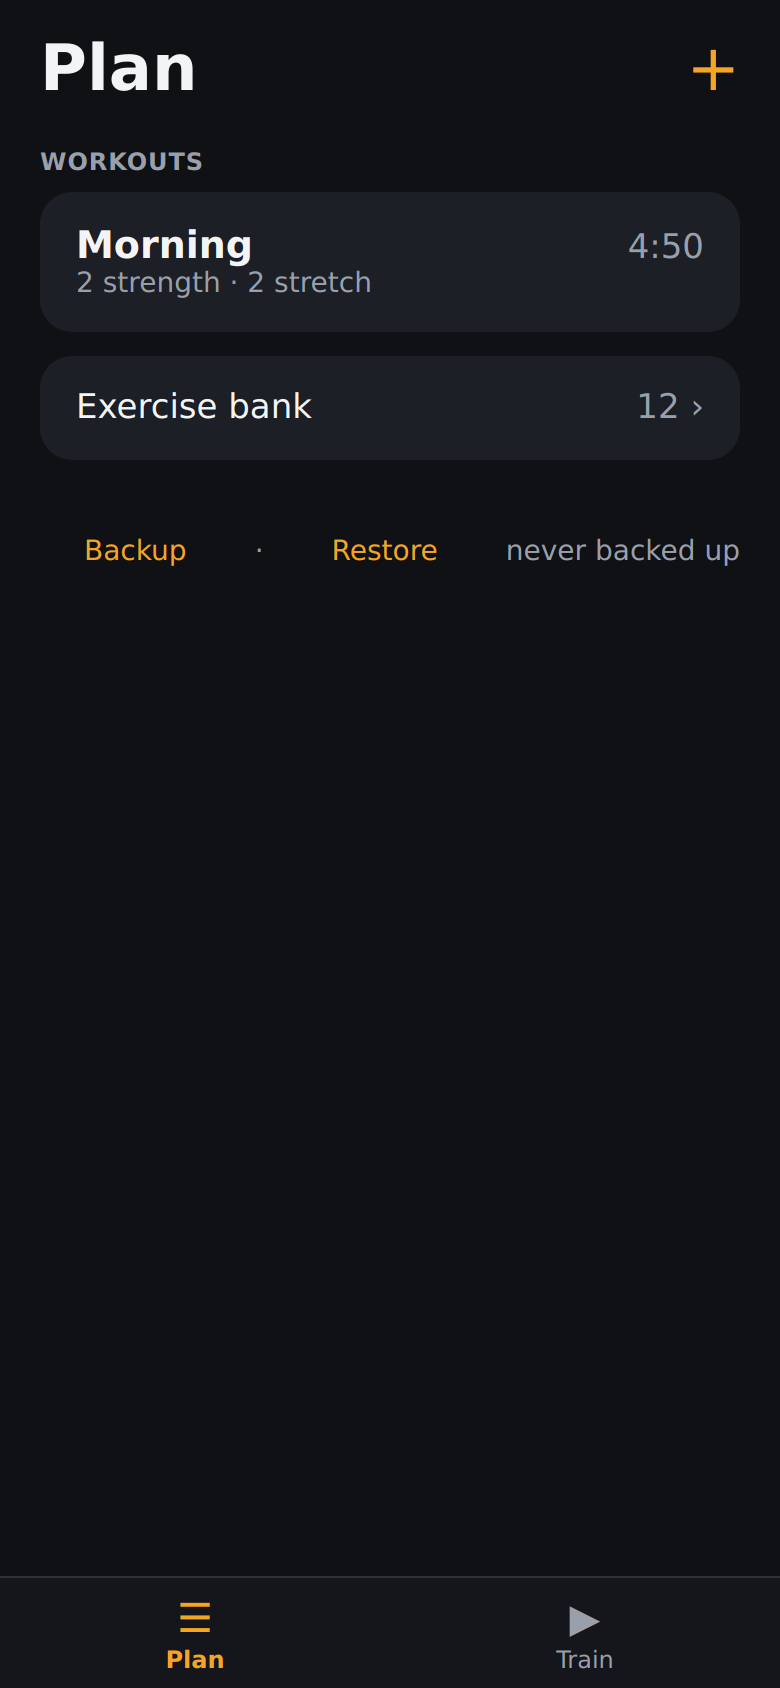
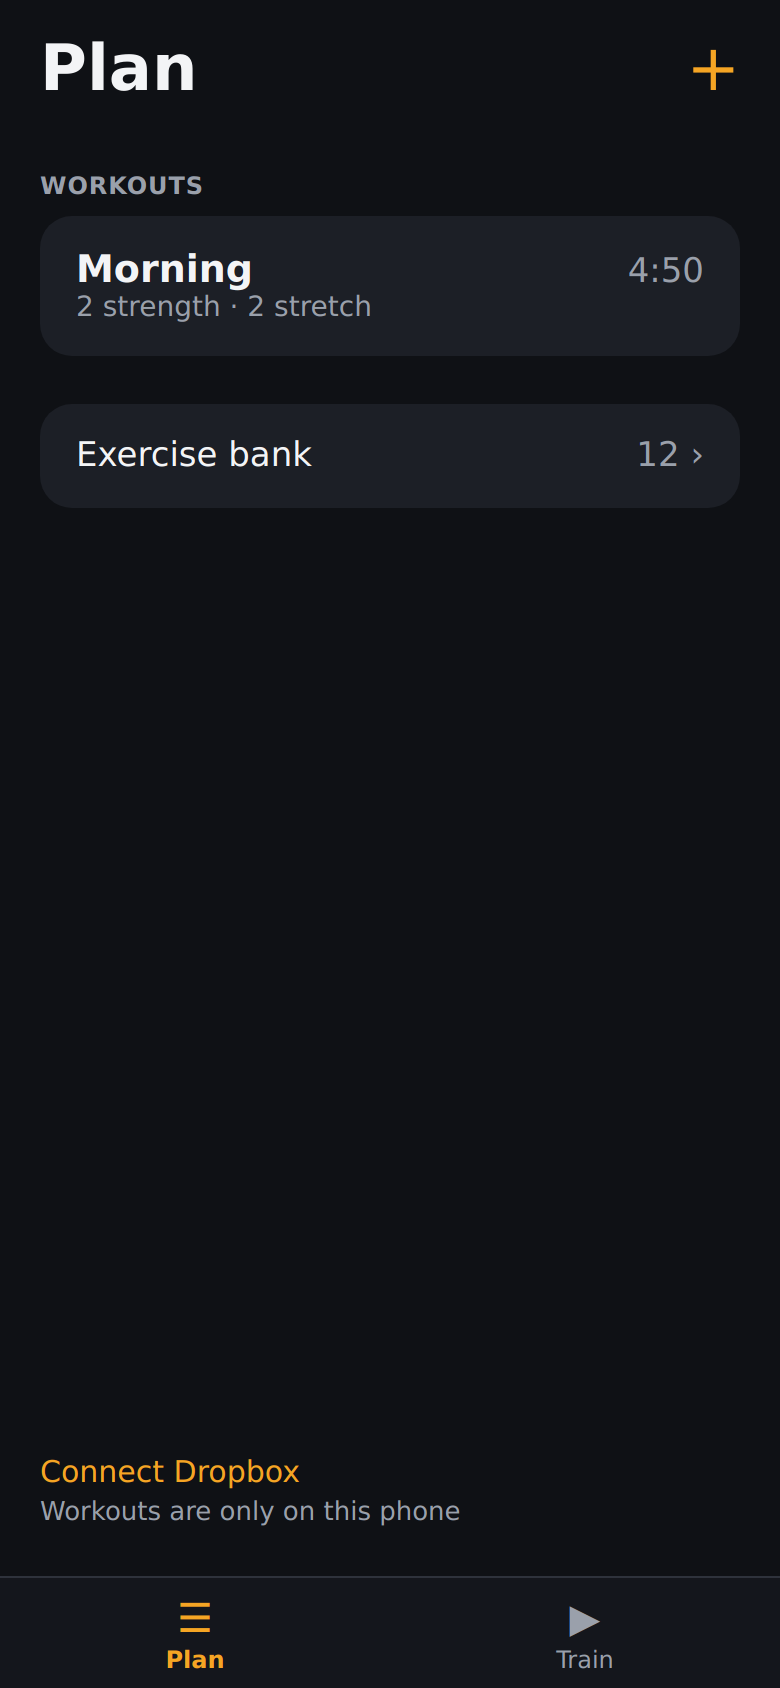
feat: Dropbox sync line and saved-configurations sheet on the Plan view

diff --git a/js/views/plan.js b/js/views/plan.js
@@ -1,12 +1,17 @@
-import { el, replace, toast, confirmAsync } from "../ui.js";
+import { el, replace, toast, confirmAsync, sheet } from "../ui.js";
 import { totals, formatDuration, summaryLine, makeWorkout } from "../workout.js";
-import { EXERCISES, getExercise } from "../exercises.js";
-import { validateBackup } from "../store.js";
+import { EXERCISES } from "../exercises.js";
+import { formatSyncTime } from "../sync.js";
 
-export function render({ store, navigate }) {
-  const root = el("div");
+const LINE_TEXT = { saving: "Saving to Dropbox…", offline: "Offline · will sync when online", error: "Sync failed · tap to retry" };
+const plural = n => `${n} workout${n === 1 ? "" : "s"}`;
+
+export function render({ store, sync, navigate }) {
+  const root = el("div", { class: "plan" });
+  const lineHost = el("div", { class: "sync-host" });
   draw();
-  return { el: root, tabs: "plan" };
+  const unsub = sync.subscribe(() => replace(lineHost, syncLine()));
+  return { el: root, tabs: "plan", destroy: unsub };
 
   function draw() {
     const st = store.state;
@@ -19,7 +24,7 @@ export function render({ store, navigate }) {
         })
       : [el("div", { class: "empty" }, "No workouts yet. Tap + to create one.")];
 
-    const fileInput = el("input", { type: "file", accept: "application/json,.json", hidden: true, onChange: restore });
+    replace(lineHost, syncLine());
     replace(root,
       store.saveError ? el("div", { class: "notice warn" }, "Changes are not being saved: storage is unavailable or full.") : null,
       el("div", { class: "header" },
@@ -34,41 +39,64 @@ export function render({ store, navigate }) {
       ...cards,
       el("button", { class: "card", style: { marginTop: "12px" }, onClick: () => navigate("/plan/bank") },
         el("div", { class: "row" }, el("span", {}, "Exercise bank"), el("span", { class: "dur" }, `${EXERCISES.length}  ›`))),
-      el("div", { class: "links" },
-        el("button", { class: "text-link block-btn", onClick: backup }, "Backup"),
-        el("span", { class: "sep" }, "·"),
-        el("button", { class: "text-link block-btn", onClick: () => fileInput.click() }, "Restore"),
-        el("span", { class: "sub" }, st.lastBackupAt ? `last backup ${st.lastBackupAt.slice(0, 10)}` : "never backed up")),
-      fileInput,
+      lineHost,
     );
   }
 
-  async function backup() {
-    const st = store.state;
-    const data = JSON.stringify({ version: 1, savedAt: st.savedAt, workouts: st.workouts }, null, 2);
-    const blob = new Blob([data], { type: "application/json" });
-    const url = URL.createObjectURL(blob);
-    const a = el("a", { href: url, download: `morning-fit-backup-${new Date().toISOString().slice(0, 10)}.json` });
-    document.body.append(a);
-    a.click();
-    a.remove();
-    setTimeout(() => URL.revokeObjectURL(url), 10_000);
-    await store.markBackup();
-    draw();
+  // The one line at the bottom of the view; a button in every state (spec 4.1).
+  function syncLine() {
+    const s = sync.status;
+    if (s === "off") {
+      return el("button", { class: "sync-line off", onClick: () => sync.connect() },
+        el("span", { class: "main" }, "Connect Dropbox"), el("span", { class: "sub" }, "Workouts are only on this phone"));
+    }
+    const text = s === "synced" ? (sync.syncedAt ? `Synced to Dropbox · ${formatSyncTime(sync.syncedAt)}` : "Connected to Dropbox") : LINE_TEXT[s];
+    return el("button", { class: `sync-line ${s}`, onClick: onSyncTap }, el("span", { class: "main" }, text), el("span", { class: "chev" }, "›"));
   }
 
-  async function restore(e) {
-    const file = e.target.files[0];
-    e.target.value = "";
-    if (!file) return;
-    let obj;
-    try { obj = JSON.parse(await file.text()); } catch { toast("That file is not valid JSON"); return; }
-    const r = validateBackup(obj, getExercise);
-    if (!r.ok) { toast(r.error, 4000); return; }
-    const dropped = r.dropped ? ` ${r.dropped} step(s) with unknown exercises will be dropped.` : "";
-    if (!(await confirmAsync(`Replace all workouts with ${r.workouts} from the backup?${dropped}`))) return;
-    await store.replace(r.state);
-    toast("Workouts restored");
-    draw();
+  async function onSyncTap() {
+    const s = sync.status;
+    if (s === "offline") { toast("Dropbox is not reachable"); return; }
+    if (s === "error") { await sync.retry(); return; }
+    if (!(await confirmAsync("Load a saved configuration?\nYour current workouts will be kept in Dropbox as a new .bak file first."))) return;
+    openConfigs();
+  }
+
+  function openConfigs() {
+    const list = el("div", { class: "cfg-list" }, el("div", { class: "sub" }, "Loading…"));
+    const close = sheet(el("div", {},
+      el("h2", {}, "Saved configurations"),
+      el("div", { class: "type" }, "Dropbox / Apps / fitapp"),
+      list,
+      el("button", { class: "block-btn cfg-disconnect", onClick: onDisconnect }, "Disconnect Dropbox"),
+      el("button", { class: "btn raised", onClick: () => close() }, "Cancel")));
+
+    sync.listConfigs()
+      .then(rows => replace(list, rows.length ? rows.map(row) : el("div", { class: "sub" }, "No configurations in Dropbox yet.")))
+      .catch(() => replace(list, el("div", { class: "sub" }, "Could not read Dropbox. Try again later.")));
+
+    function row(r) {
+      const when = r.ok ? formatSyncTime(r.savedAt) : "";
+      const detail = r.ok ? plural(r.count) + (r.names.length ? " · " + r.names.join(", ") : "") : "unreadable";
+      return el("button", { class: "cfg-row", dataset: { name: r.name }, disabled: !r.ok, onClick: () => pick(r) },
+        el("div", { class: "top" }, el("span", { class: "fname" }, r.name), r.current ? el("span", { class: "tag" }, "current") : null, el("span", { class: "when" }, when)),
+        el("div", { class: "detail" }, detail));
+    }
+
+    async function pick(r) {
+      try {
+        const res = await sync.loadConfig(r.name);
+        close();
+        toast(`Loaded ${res.name} · ${plural(res.count)}`);
+        draw();
+      } catch { toast(`Could not load ${r.name}`, 4000); }
+    }
+
+    async function onDisconnect() {
+      if (!(await confirmAsync("Disconnect Dropbox? Workouts stay on this phone and in Dropbox."))) return;
+      await sync.disconnect();
+      close();
+      draw();
+    }
   }
 }

diff --git a/js/app.js b/js/app.js
@@ -1,5 +1,8 @@
 import { createStore } from "./store.js";
 import { localAdapter, idbAdapter } from "./kv.js";
+import { createDropbox } from "./dropbox.js";
+import { createSync } from "./sync.js";
+import { getExercise } from "./exercises.js";
 import { startRouter, navigate } from "./router.js";
 import { toast, closeSheets } from "./ui.js";
 import * as plan from "./views/plan.js";
@@ -10,8 +13,11 @@ import * as session from "./views/session.js";
 import * as done from "./views/done.js";
 
 const KEY = "morningfit.v1";
+const DROPBOX_APP_KEY = "4rmxsnol2k5kibm";   // public identifier of the "fitapp" Dropbox app (app-folder access)
 const views = { plan, workout, bank, train, session, done };
 const store = createStore({ local: localAdapter(localStorage, KEY), idb: idbAdapter() });
+const dropbox = createDropbox({ appKey: DROPBOX_APP_KEY, redirectUri: location.origin + location.pathname, storage: localStorage });
+const sync = createSync({ store, dropbox, storage: localStorage, online: () => navigator.onLine, go: url => { location.href = url; }, toast, getExercise });
 let current = null;
 
 async function boot() {
@@ -20,10 +26,23 @@ async function boot() {
   else if (r.recovered) toast("Recovered workouts from the backup copy", 4000);
   navigator.storage?.persist?.().catch(() => {});
 
+  // Returning from the Dropbox login: ?code=...&state=... (or ?error=...) on the app URL.
+  const q = new URL(location.href).searchParams;
+  if (q.has("code") || q.has("error")) {
+    const code = q.get("code"), state = q.get("state"), err = q.get("error");
+    history.replaceState(null, "", location.pathname + "#/plan");
+    if (code) sync.finishConnect(code, state).catch(() => toast("Dropbox connection failed", 4000));
+    else toast(err === "access_denied" ? "Dropbox connection cancelled" : "Dropbox connection failed", 4000);
+  } else {
+    sync.reconcile();
+  }
+  addEventListener("online", () => sync.reconcile());
+  document.addEventListener("visibilitychange", () => { if (document.visibilityState === "visible") sync.reconcile(); });
+
   startRouter(route => {
     closeSheets();
     current?.destroy?.();
-    const out = views[route.name].render({ store, params: route.params, navigate });
+    const out = views[route.name].render({ store, sync, params: route.params, navigate });
     current = out;
     const main = document.getElementById("view");
     main.replaceChildren(out.el);

diff --git a/css/app.css b/css/app.css
@@ -116,3 +116,19 @@ input { font:inherit; color:inherit; }
 .done h1 { margin:0; font-size:30px; }
 .done .btn { position:fixed; left:20px; right:20px; bottom:calc(var(--sab) + 32px); width:auto; max-width:480px; margin:0 auto; }
 #toast { position:fixed; left:50%; bottom:calc(var(--tabs-h) + var(--sab) + 20px); transform:translateX(-50%); background:var(--raised); color:var(--text); padding:10px 16px; border-radius:12px; font-size:14px; z-index:40; max-width:90vw; text-align:center; }
+
+/* Plan view: the sync line is pinned to the bottom, above the tab bar */
+.plan { display:flex; flex-direction:column; min-height:calc(100dvh - var(--sat) - 12px - var(--tabs-h) - var(--sab) - 24px); }
+.sync-host { margin-top:auto; }
+.sync-line { padding-top:28px; display:flex; align-items:center; justify-content:space-between; flex-wrap:wrap; gap:0 12px; min-height:44px; width:100%; font-size:15px; color:var(--muted); text-align:left; }
+.sync-line.off, .sync-line.error { color:var(--accent); }
+.sync-line .sub { flex-basis:100%; font-size:13px; margin-top:4px; }
+.sync-line .chev { color:var(--muted); font-size:18px; }
+.cfg-list { display:flex; flex-direction:column; gap:8px; margin-bottom:16px; }
+.cfg-row { background:var(--raised); border-radius:14px; padding:12px 16px; width:100%; text-align:left; }
+.cfg-row .top { display:flex; align-items:center; gap:10px; }
+.cfg-row .fname { font-weight:700; font-size:16px; }
+.cfg-row .tag { font-size:12px; font-weight:700; color:var(--stretch); background:var(--card); border-radius:6px; padding:3px 8px; }
+.cfg-row .when { margin-left:auto; color:var(--muted); font-size:13px; font-variant-numeric:tabular-nums; }
+.cfg-row .detail { color:var(--muted); font-size:13px; margin-top:4px; white-space:nowrap; overflow:hidden; text-overflow:ellipsis; }
+.cfg-disconnect { color:var(--muted); font-size:14px; margin-bottom:8px; }

diff --git a/sw.js b/sw.js
@@ -1,12 +1,12 @@
 // Precache the app shell and figures; serve same-origin GETs cache-first.
 // Bump VERSION on every deploy so old caches are replaced.
-const VERSION = "v1.1.0";
+const VERSION = "v1.2.0";
 const CACHE = `morningfit-${VERSION}`;
 const FIGURE_IDS = ["pushups", "jackknife", "situps", "prisoner_squeeze", "bird_dog", "superman", "cat_cow", "cobra", "cow_child", "squat_to_fold", "dog_lunge_rotation", "seated_side_stretch"];
 const FIGURES = FIGURE_IDS.flatMap(id => [`./assets/figures/${id}_relaxed.svg`, `./assets/figures/${id}_flexed.svg`]);
 const ASSETS = [
   "./", "./index.html", "./manifest.webmanifest", "./css/app.css",
-  "./js/app.js", "./js/router.js", "./js/ui.js", "./js/store.js", "./js/kv.js", "./js/seed.js", "./js/exercises.js",
+  "./js/app.js", "./js/router.js", "./js/ui.js", "./js/store.js", "./js/kv.js", "./js/dropbox.js", "./js/sync.js", "./js/seed.js", "./js/exercises.js",
   "./js/workout.js", "./js/session.js", "./js/clock.js", "./js/audio.js",
   "./js/views/plan.js", "./js/views/workout.js", "./js/views/bank.js", "./js/views/train.js", "./js/views/session.js", "./js/views/done.js",
   "./assets/icons/icon.svg", "./assets/icons/icon-180.png", "./assets/icons/icon-512.png",
